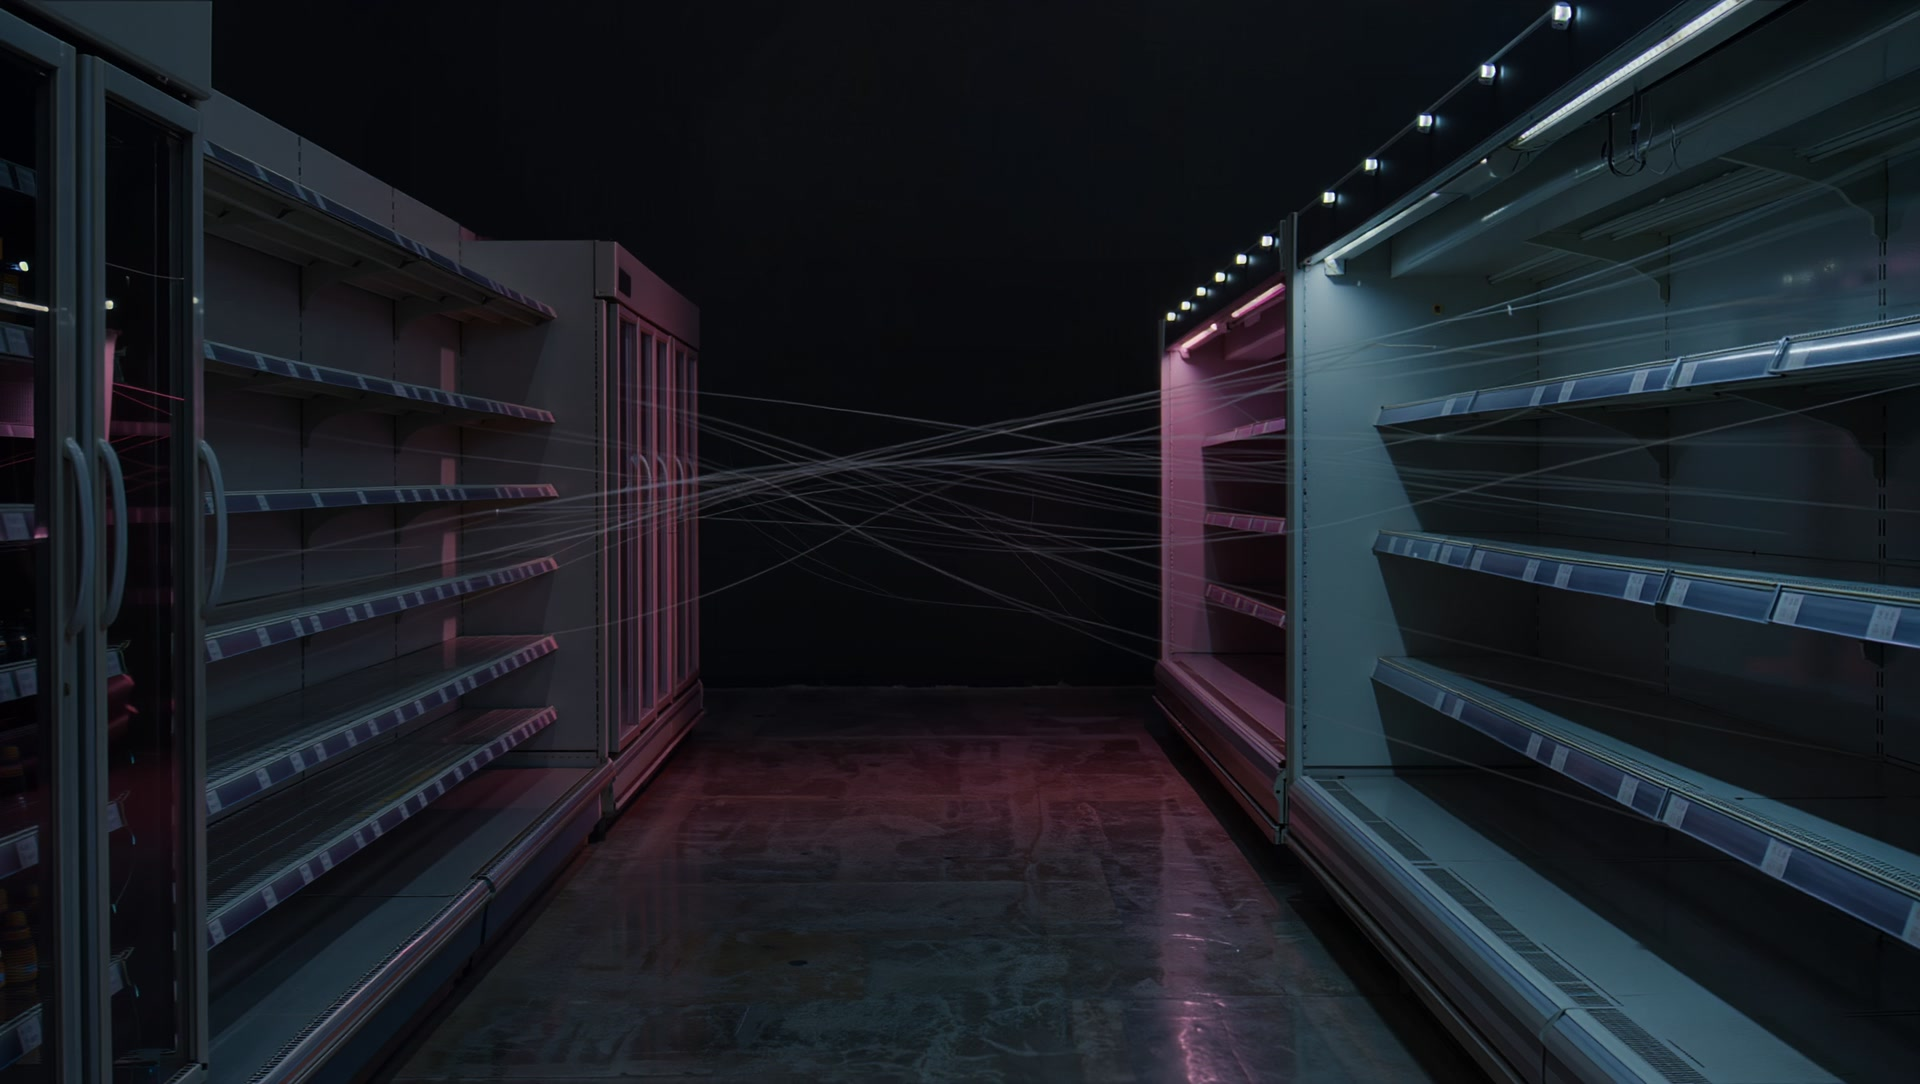
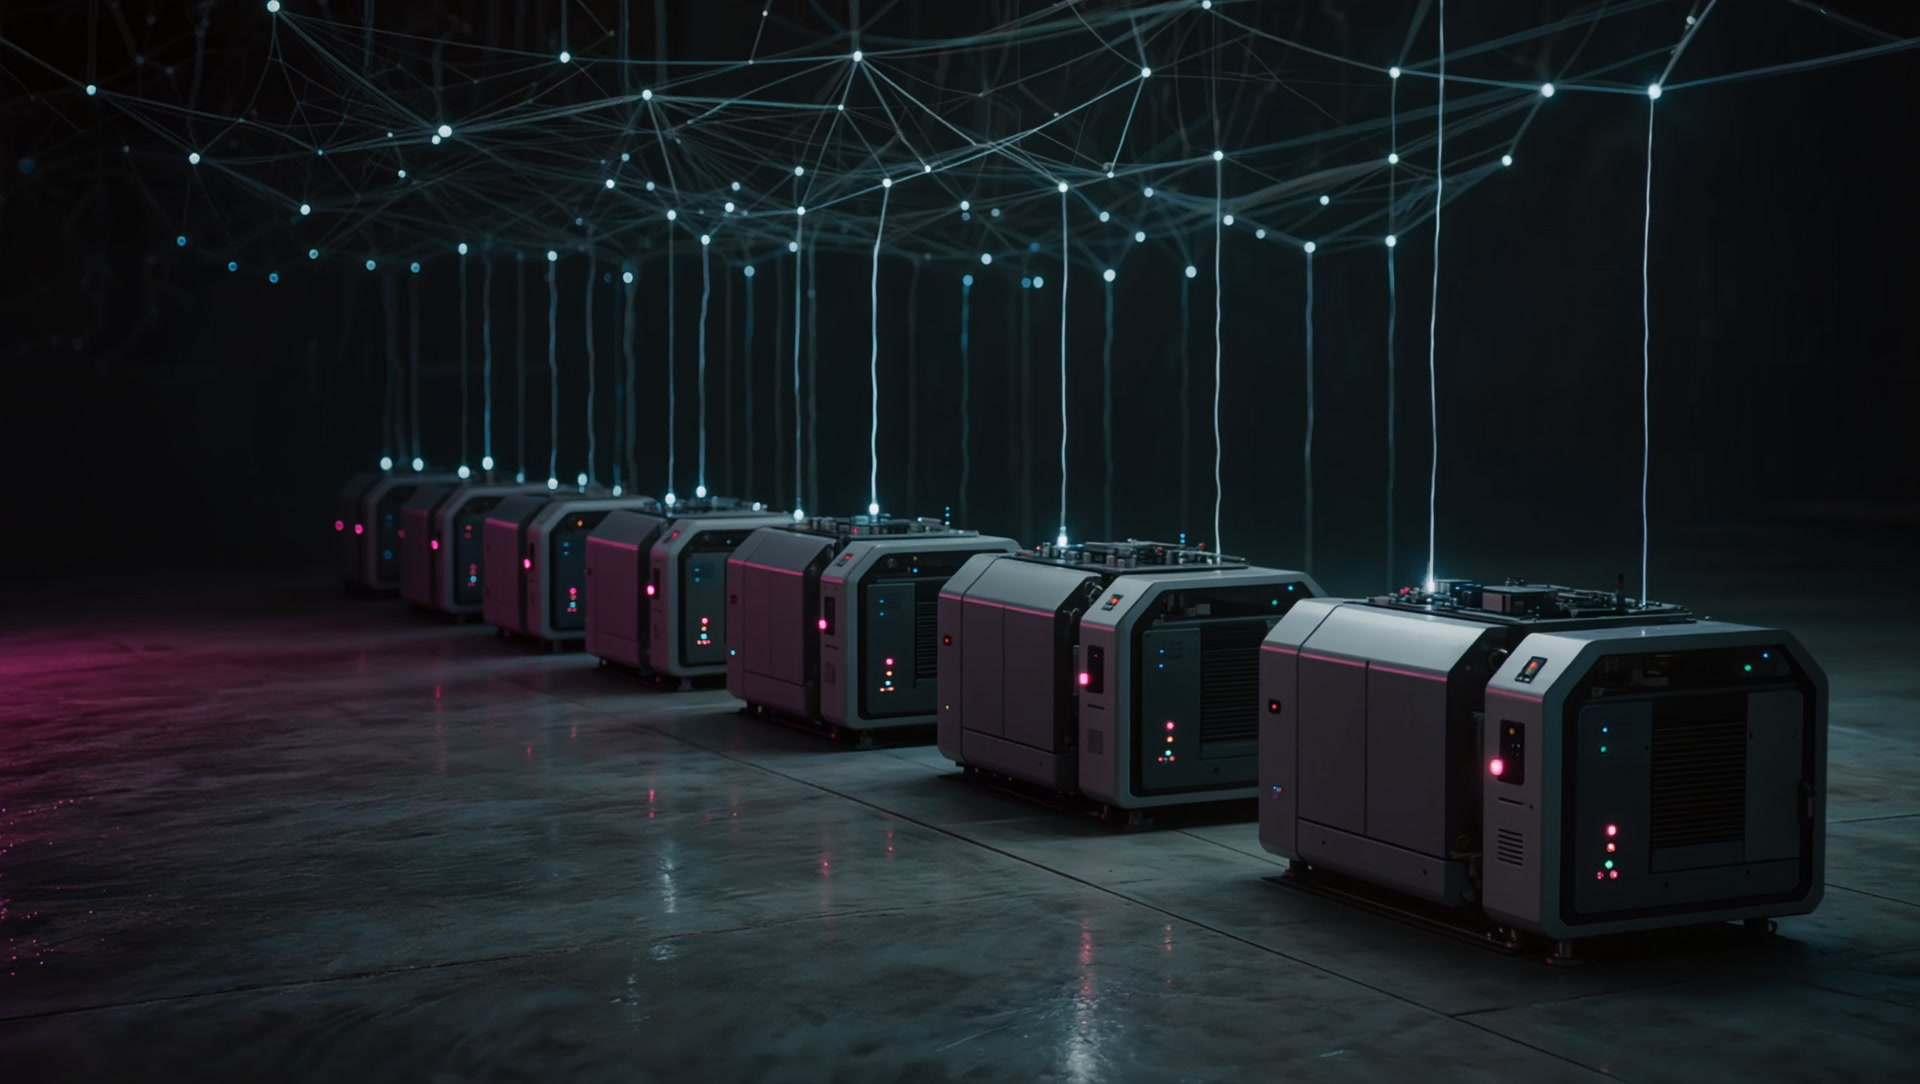
IoT hero: new connected-machines image; remove service breadcrumbs
Claude-Session: https://claude.ai/code/session_01K21u8dSj9BiFp74KmqtWzf

diff --git a/v4/services/iot.html b/v4/services/iot.html
@@ -12,7 +12,7 @@
 <link rel="stylesheet" href="../assets/v3.css?v=32">
 <link rel="stylesheet" href="../assets/dark.css?v=4">
 <link rel="stylesheet" href="../assets/pages.css?v=23">
-<link rel="stylesheet" href="../assets/fx.css?v=10">
+<link rel="stylesheet" href="../assets/fx.css?v=11">
 </head>
 <body class="sp sp--iot">
 <header class="top" id="top">
@@ -29,9 +29,8 @@
 </header>
 <main>
 <section class="sp-hero hero-flip has-img">
-  <div class="sp-hero__img" style="background-image:url(../assets/img/hero-iot.jpg)" aria-hidden="true"></div>
+  <div class="sp-hero__img" style="background-image:url(../assets/img/hero-iot.jpg?v=2)" aria-hidden="true"></div>
   <div class="sp-hero__txt">
-    <p class="crumb"><a href="../index.html#services">Services</a><span aria-hidden="true">/</span>IoT</p>
     <h1>Know what is happening at <span class="gw">every site</span>, as it happens.</h1>
     <p class="sp-sub">We design and build connected solutions, from sensors to dashboards.</p>
   </div>

diff --git a/v4/services/security.html b/v4/services/security.html
@@ -12,7 +12,7 @@
 <link rel="stylesheet" href="../assets/v3.css?v=32">
 <link rel="stylesheet" href="../assets/dark.css?v=4">
 <link rel="stylesheet" href="../assets/pages.css?v=23">
-<link rel="stylesheet" href="../assets/fx.css?v=10">
+<link rel="stylesheet" href="../assets/fx.css?v=11">
 </head>
 <body class="sp sp--security">
 <header class="top" id="top">
@@ -31,7 +31,6 @@
 <section class="sp-hero hero-full hero-full--mid has-img">
   <div class="sp-hero__img" style="background-image:url(../assets/img/hero-security.jpg)" aria-hidden="true"></div>
   <div class="sp-hero__txt">
-    <p class="crumb"><a href="../index.html#services">Services</a><span aria-hidden="true">/</span>ICT services<span aria-hidden="true">/</span>Security</p>
     <h1>Security <span class="gw">built in</span>, not added later.</h1>
     <p class="sp-sub">We find the risks, choose the right protection and put strong controls in place across networks, apps, data and AI.</p>
   </div>

diff --git a/v4/services/cloud.html b/v4/services/cloud.html
@@ -12,7 +12,7 @@
 <link rel="stylesheet" href="../assets/v3.css?v=32">
 <link rel="stylesheet" href="../assets/dark.css?v=4">
 <link rel="stylesheet" href="../assets/pages.css?v=23">
-<link rel="stylesheet" href="../assets/fx.css?v=10">
+<link rel="stylesheet" href="../assets/fx.css?v=11">
 </head>
 <body class="sp sp--cloud">
 <header class="top" id="top">
@@ -31,7 +31,6 @@
 <section class="sp-hero hero-full has-img">
   <div class="sp-hero__img" style="background-image:url(../assets/img/hero-cloud.jpg)" aria-hidden="true"></div>
   <div class="sp-hero__txt">
-    <p class="crumb"><a href="../index.html#services">Services</a><span aria-hidden="true">/</span>ICT services<span aria-hidden="true">/</span>Cloud and infrastructure</p>
     <h1>Systems that <span class="gw">stay up</span>, and grow when you do.</h1>
     <p class="sp-sub">We design, build and run the infrastructure behind your apps and AI: on-premises, in the cloud or both.</p>
   </div>

diff --git a/v4/services/ai.html b/v4/services/ai.html
@@ -12,7 +12,7 @@
 <link rel="stylesheet" href="../assets/v3.css?v=32">
 <link rel="stylesheet" href="../assets/dark.css?v=4">
 <link rel="stylesheet" href="../assets/pages.css?v=23">
-<link rel="stylesheet" href="../assets/fx.css?v=10">
+<link rel="stylesheet" href="../assets/fx.css?v=11">
 </head>
 <body class="sp sp--ai">
 <header class="top" id="top">
@@ -31,7 +31,6 @@
 <section class="sp-hero hero-center has-img">
   <div class="sp-hero__img" style="background-image:url(../assets/img/hero-ai.jpg)" aria-hidden="true"></div>
   <div class="sp-hero__txt">
-    <p class="crumb"><a href="../index.html#services">Services</a><span aria-hidden="true">/</span>AI</p>
     <h1>AI that <span class="gw">works</span> inside your business, not just in a demo.</h1>
     <p class="sp-sub">Our consultants and developers take AI from first idea to daily use, connected to the systems and data you already have.</p>
   </div>

diff --git a/v4/services/blockchain.html b/v4/services/blockchain.html
@@ -12,7 +12,7 @@
 <link rel="stylesheet" href="../assets/v3.css?v=32">
 <link rel="stylesheet" href="../assets/dark.css?v=4">
 <link rel="stylesheet" href="../assets/pages.css?v=23">
-<link rel="stylesheet" href="../assets/fx.css?v=10">
+<link rel="stylesheet" href="../assets/fx.css?v=11">
 </head>
 <body class="sp sp--blockchain">
 <header class="top" id="top">
@@ -31,7 +31,6 @@
 <section class="sp-hero hero-band has-img">
   <div class="sp-hero__img" style="background-image:url(../assets/img/hero-blockchain.jpg)" aria-hidden="true"></div>
   <div class="sp-hero__txt">
-    <p class="crumb"><a href="../index.html#services">Services</a><span aria-hidden="true">/</span>Blockchain</p>
     <h1>Records <span class="gw">no one</span> can argue with.</h1>
     <p class="sp-sub">Our architects and smart-contract developers make records verifiable and payments automatic.</p>
   </div>

diff --git a/v4/assets/fx.css b/v4/assets/fx.css
@@ -144,7 +144,7 @@ html { overflow-x: clip; }
 .has-img .sp-hero__img::after { background: linear-gradient(90deg, #0A0A11 0%, rgba(10,10,17,.85) 28%, rgba(10,10,17,.35) 55%, rgba(10,10,17,.15) 100%); }
 .hero-flip.has-img .sp-hero__img::after { background: linear-gradient(270deg, #0A0A11 0%, rgba(10,10,17,.85) 30%, rgba(10,10,17,.3) 58%, rgba(10,10,17,.1) 100%); }
 .hero-flip.has-img .sp-hero__viz { display: block; visibility: hidden; }
-.sp--iot .sp-hero__img { background-position: 30% center; }
+.sp--iot .sp-hero__img { background-position: 20% center; }
 .sp--security .sp-hero__img { left: calc(50% - 50vw); background-position: 75% 40%; }
 .sp--security .sp-hero__img::after { background: linear-gradient(90deg, #0A0A11 0%, rgba(10,10,17,.88) 30%, rgba(10,10,17,.2) 60%, rgba(10,10,17,.05) 100%); }
 .sp--security .has-img { background: none; }
